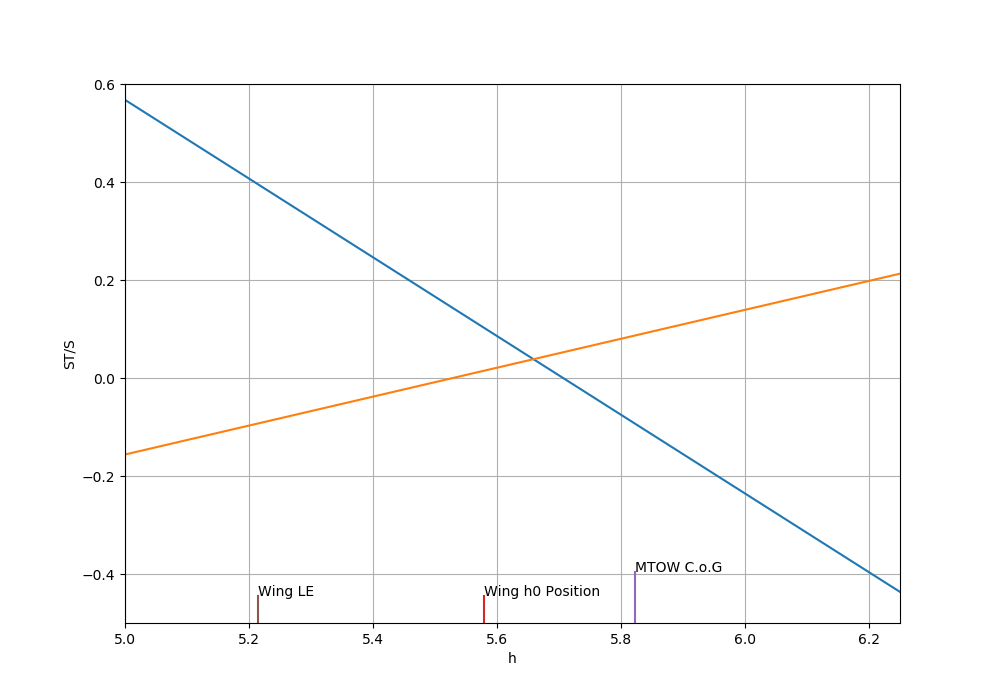
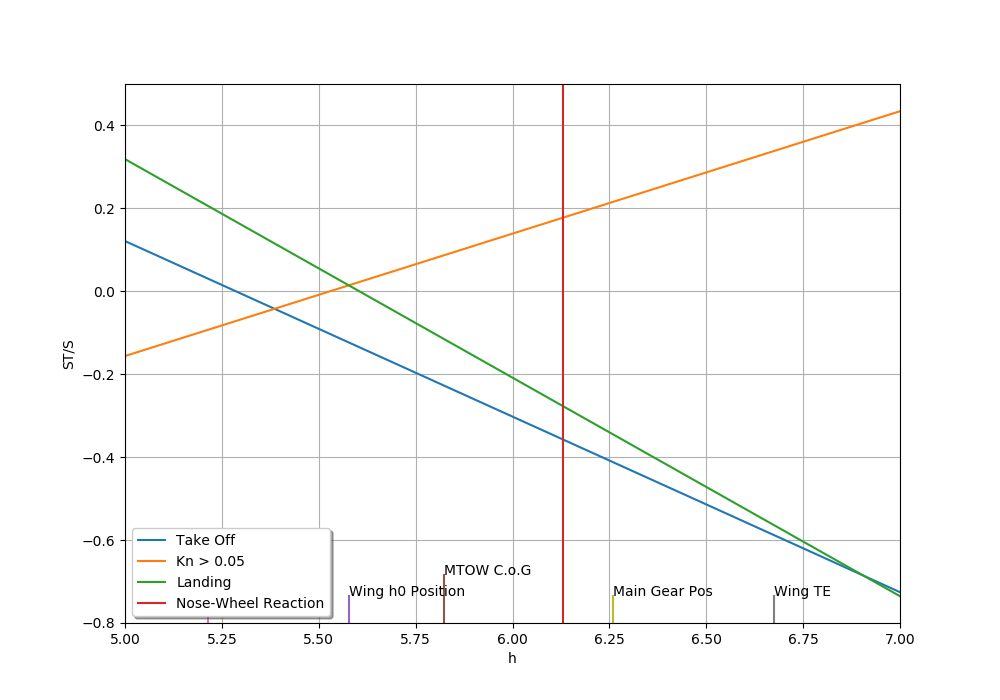
Update repo

diff --git a/scissorplot.py b/scissorplot.py
@@ -65,12 +65,11 @@ mtow_pos = (14.436+0.364)/c_bar  # Approx P2B mtow pos from GA
 
 
 def noseWheel():
-    c_bar = 2.83
-    nosepos = 1.8
-    mainpos = 14.1975
+    nosepos = params['NoseGearPos']
+    mainpos = params['MainGearPos']
     condition_point = (0.975*(mainpos-nosepos)) + nosepos
     return condition_point/c_bar
-print(noseWheel())
+
 
 def mainGearReaction():
     total_weight = mtow/qS(vto)
@@ -78,7 +77,7 @@ def mainGearReaction():
 
 
 def takeOffRotation(h):
-    cl_moment = cl_to * (h0-h)  # CL * distance between h and h0 (Centre of Lift)
+    cl_moment = cl_to * (h-h0)  # CL * distance between h and h0 (Centre of Lift)
     print("cl moment = " + str(cl_moment))
     ct_moment = cthrust * 0.5/c_bar  # Thrust Coeef * vertical distance to CoG (i.e. h)
     print("ct moment = " + str(cthrust))
@@ -89,13 +88,20 @@ def takeOffRotation(h):
     tail_moment_arm = (params['TailRootRearPlane']/c_bar) - h  # The tail moment to h
     print("Tail moment arm distance = " + str(tail_moment_arm))
 
-    lhs_top = cm0 + cl_moment - ct_moment - (main_gear_moment_distance * (weight_nondim-cl_to))
+    lhs_top = cm0 + cl_moment + ct_moment - (main_gear_moment_distance * (weight_nondim-cl_to))
     #         Cm0 + cl(h-h0)  - ct(dist)  - reaction distance * the weight minus the cl lift
     # print("top = " + str(lhs_top))
-    lhs_bottom = -((clt * tail_moment_arm) - (main_gear_moment_distance * clt))
+    lhs_bottom = ((clt * tail_moment_arm) - (main_gear_moment_distance * clt))
     #            (tail lift * moment arm) - (distance * the rest of the vertically resolved bit)
     # print("bottom = " + str(lhs_bottom))
 
+    return lhs_top/lhs_bottom
+
+
+def landing(h):
+    tail_moment_arm = (params['TailRootRearPlane'] / c_bar) - h0
+    lhs_top = cm0 - (cl_to*(h0-h))
+    lhs_bottom = clt * tail_moment_arm
     return lhs_top/lhs_bottom
 
 
@@ -128,13 +134,17 @@ def plotit(r1, r2):
     y_heads = []
     plt.xlabel("h")
     plt.ylabel("ST/S")
-    plt.plot(x_h, takeOffRotation(x_h))
+    plt.plot(x_h, takeOffRotation(x_h), label='Take Off')
     y_tails.append(min(takeOffRotation(x_h)))
     y_heads.append(max(takeOffRotation(x_h)))
 
-    plt.plot(x_h, kn(x_h))
+    plt.plot(x_h, kn(x_h), label='Kn > 0.05')
     y_tails.append(min(kn(x_h)))
     y_heads.append(max(kn(x_h)))
+
+    plt.plot(x_h, landing(x_h), label='Landing')
+    y_tails.append(min(landing(x_h)))
+    y_heads.append(max(landing(x_h)))
 
     """This section constrains the graph correctly"""
     max_y = myceil(max(y_heads), step)
@@ -150,7 +160,7 @@ def plotit(r1, r2):
     ref_head = ((max_y-ref_tail)*0.05) + ref_tail
 
     # Plot the noseWheel conditions
-    plt.plot([noseWheel(), noseWheel()], [min_y, max_y])
+    plt.plot([noseWheel(), noseWheel()], [min_y, max_y], label='Nose-Wheel Reaction')
 
     # Plot h0 position
     plt.plot([h0, h0], [ref_tail, ref_head])
@@ -170,9 +180,10 @@ def plotit(r1, r2):
     plt.plot([mainpos, mainpos], [ref_tail, ref_head])
     plt.annotate("Main Gear Pos", [mainpos, ref_head])
     plt.grid(True)
+    plt.legend(loc='lower left', shadow=True)
     plt.savefig("plot.png")
     plt.show()
 
 
-plotit(5, 6.25)
+plotit(5, 7)
 
